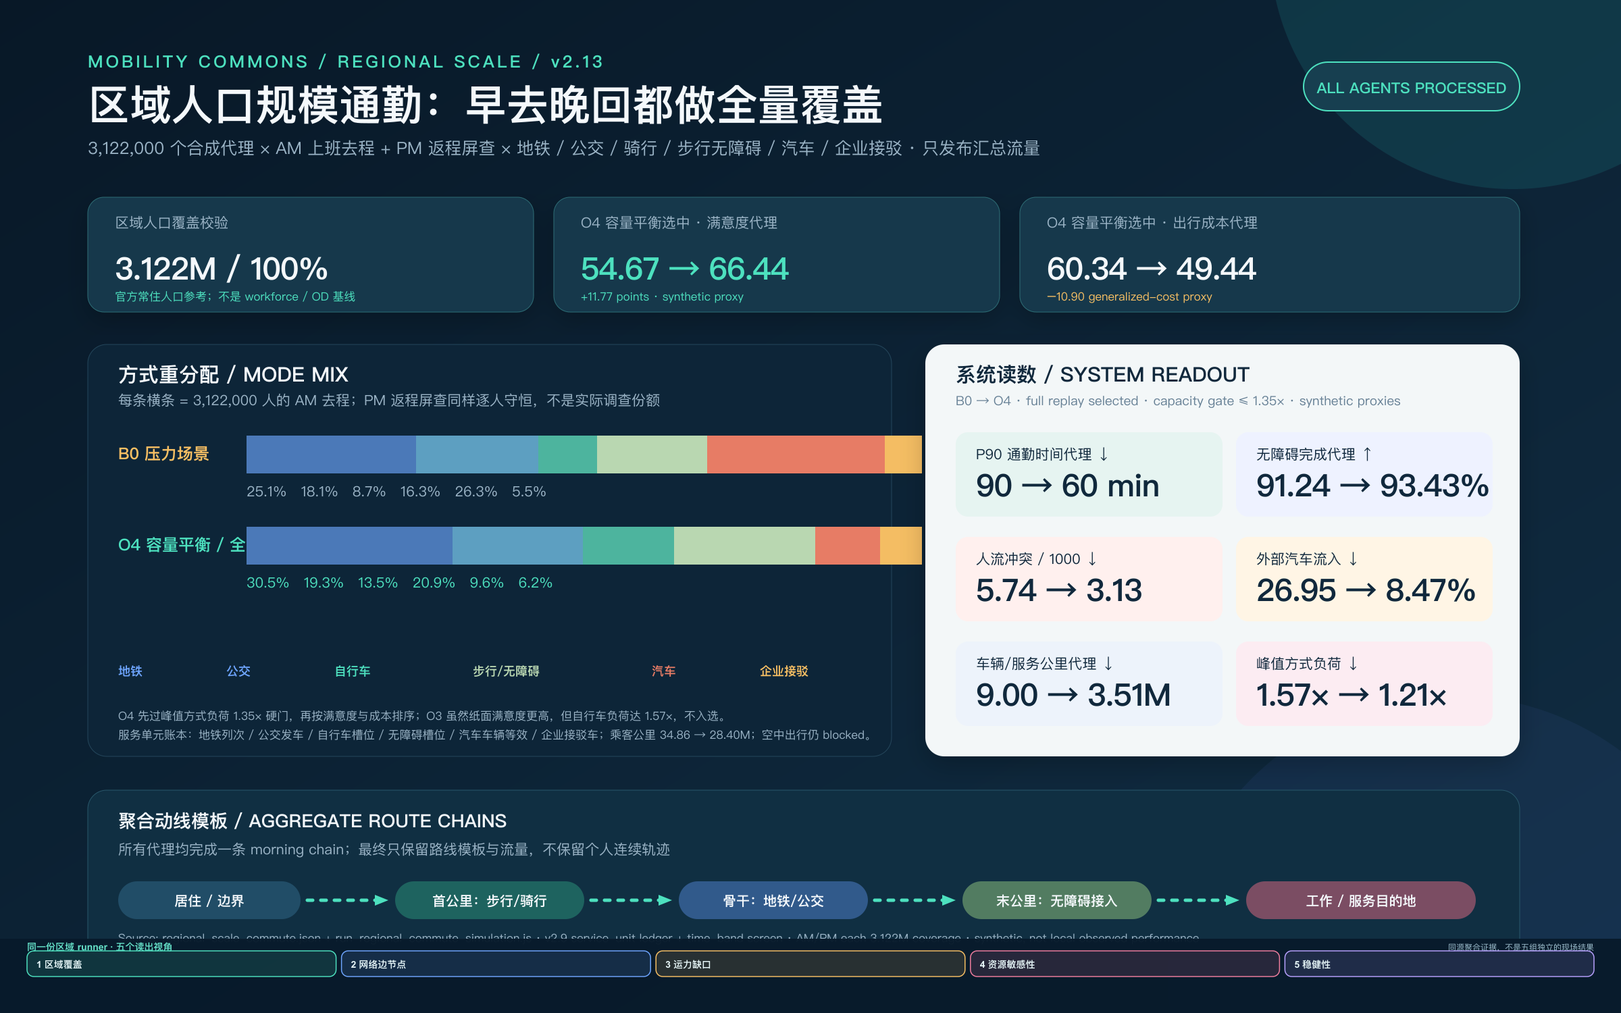
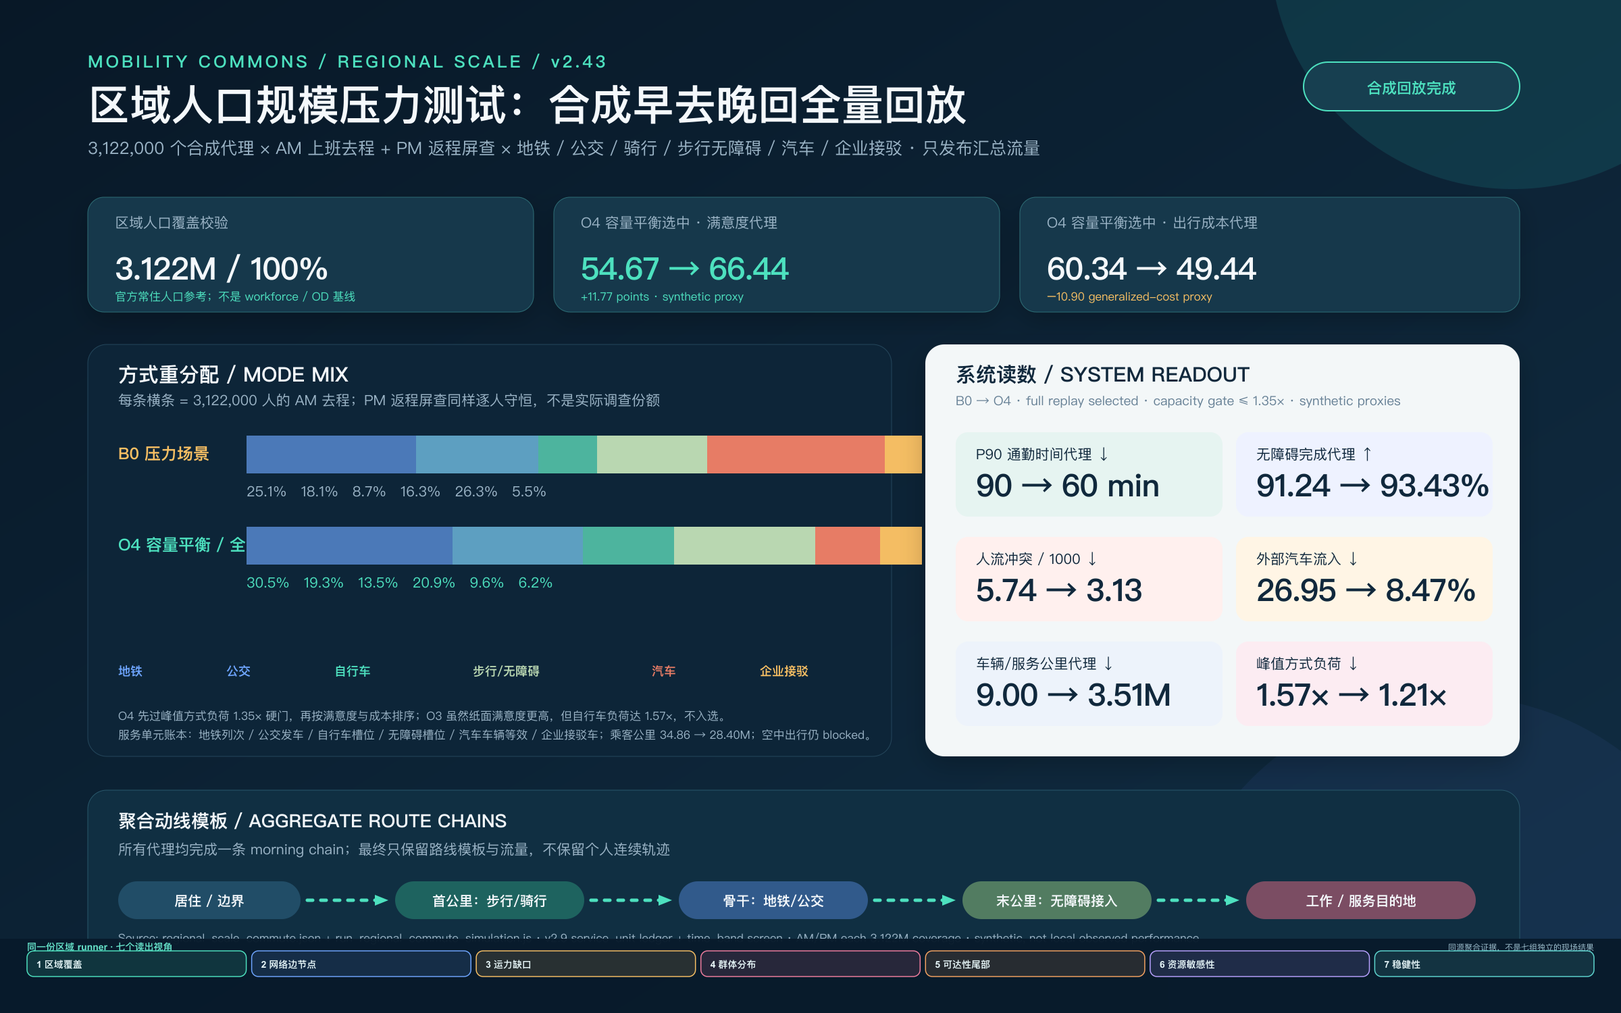
Clarify synthetic population stress replay

diff --git a/submissions/147228/mobility-commons-jingzhang/report/proposal.en.html b/submissions/147228/mobility-commons-jingzhang/report/proposal.en.html
@@ -267,11 +267,11 @@ code {
 <p>The map answers the spatial question before the model question. The three key areas, four conceptual links, external-commute interface and five curb states share one relationship view; colours describe a design contract and do not represent observed occupancy. The boundary, roads and key areas remain provisional, with no observed station capacity or flow drawn here <sup class="evidence evidence-data" data-evidence-kind="data" data-evidence-value="geometry/site_boundary.geojson#SITE-001" title="空间数据：geometry/site_boundary.geojson#SITE-001">空间数据</sup> <sup class="evidence evidence-data" data-evidence-kind="data" data-evidence-value="geometry/key_areas.geojson#PROV-KEY-001" title="空间数据：geometry/key_areas.geojson#PROV-KEY-001">空间数据</sup> <sup class="evidence evidence-data" data-evidence-kind="data" data-evidence-value="geometry/roads.geojson#ROAD-001" title="空间数据：geometry/roads.geojson#ROAD-001">空间数据</sup>.</p>
 <figure class="proposal-figure"><img src="../assets/figures/system-efficiency-board.en.svg" alt="v1.3 enterprise–resident mobility system efficiency: candidates, groups and gates"><figcaption>v1.3 enterprise–resident mobility system efficiency: candidates, groups and gates</figcaption></figure>
 <figure class="proposal-figure"><img src="../assets/figures/model-objects.en.png" alt="Multimodal model objects: residents, vehicles, metro and analysis outputs"><figcaption>Multimodal model objects: residents, vehicles, metro and analysis outputs</figcaption></figure>
-<h4>Regional-scale integrated commute simulation: process the full 3.122M morning chains</h4>
+<h4>Population-reference synthetic AM/PM stress replay</h4>
 <p>To address the objective of maximizing system efficiency and the satisfaction outcome, the package now adds <code>visual/assets/regional-scale-commute.json</code> and <code>node visual/assets/run-regional-commute-simulation.js</code>. It uses the official Beijing profile’s 3.122 million Haidian permanent residents at the end of 2024 as a <strong>population-scale coverage reference</strong>, and processes one synthetic morning chain for every agent: home/boundary → first mile → metro/bus/bicycle/walking-accessible/car/enterprise shuttle → work or service destination. The 3,122,000 figure is a population-scale stress test, not a workforce count, census microdata release or observed local OD. The enterprise, resident-worker, carer/child, visitor/service, logistics/maintenance and night-worker shares are declared scenario weights awaiting calibration <sup class="evidence evidence-source" data-evidence-kind="source" data-evidence-value="HAIDIAN-POPULATION-2024" title="来源：HAIDIAN-POPULATION-2024">来源</sup>.</p>
 <p>The runner actually loops through all 3,122,000 synthetic agents and retains only group, zone, mode, route-template, time-histogram, passenger-kilometre, service-unit-ledger and mass-conservation aggregates; no address, employer, identity or continuous personal trace is stored. B0 is a concentrated-arrival stress case, O1/O2/O3/O4 are public-transport, active-mobility, equity and capacity-balanced candidates, and R1 is a ground fallback screen after a metro disruption. The runner fully replays O1/O2/O3/O4 for the AM leg, applies a hard gate of peak mode load ≤1.35×, then selects lexicographically by maximum composite mobility-pressure proxy score → generalized cost → p90 time → conflicts → external-car inflow → vehicle/service-km; O3 has the highest paper score but fails its bicycle-load gate, so O4 capacity-balanced wins the declared synthetic set. O4 then runs a separate full-population PM return coverage screen with reversed aggregate routes; evening OD remains pending dated evidence. “Composite mobility-pressure proxy score” is built from time, reliability, accessibility and conflict. A resident survey result remains pending formal evidence.</p>
 <p>Under the current synthetic inputs, the full-replay-selected O4 moves the composite mobility-pressure proxy score from 54.67 to 66.44, generalized-cost proxy from 60.34 to 49.44, p90 time proxy from 90 to 60 minutes, people-flow conflicts from 5.74 to 3.13 per 1,000, external-car inflow from 26.95% to 8.47%, passenger-kilometre proxy from 34.86M to 28.40M, vehicle/service-kilometre proxy from 9.00M to 3.51M, and peak mode load from 1.57× to 1.21×. The <code>service_unit_ledger</code> reports, for each mode, required and available train departures, bus departures, bicycle slots, accessible-path slots, car vehicle equivalents and enterprise shuttle vehicles; these are transparent synthetic service screens, while observed fleets, timetables and capacity remain pending dated evidence. The ranked O1/O2/O3/O4 candidates, capacity loads and gate results are emitted by the runner, so a hand-picked candidate is not presented as optimal; O3 can return only after bicycle capacity is supplied or calibrated. These values demonstrate population-scale conservation, replayability and comparison. They do not establish the same improvement in Haidian. A resident survey result remains pending formal evidence. Before a local decision, the package still requires time-binned OD, workforce composition, station/bus/curb capacity, grouped mode shares, door-to-door p50/p90, accessibility audits and fleet/headway evidence.</p>
-<figure class="proposal-figure"><img src="../assets/figures/regional-scale-commute-board.en.svg" alt="Regional-scale integrated commute simulation: 3.122M synthetic population agents"><figcaption>Regional-scale integrated commute simulation: 3.122M synthetic population agents</figcaption></figure>
+<figure class="proposal-figure"><img src="../assets/figures/regional-scale-commute-board.en.svg" alt="Population-reference synthetic commute stress replay"><figcaption>Population-reference synthetic commute stress replay</figcaption></figure>
 <p>To keep group differences visible, the new group–mode–capacity board exposes the O4 proxy scores directly: resident workers 67.38, carers/children 67.24, night workers 66.35 and logistics/maintenance 57.21; grouped accessibility completion stays within the synthetic 92.87%–95.49% range. The right-hand ledger separates metro, bus, bicycle, accessible-path, car and enterprise-shuttle service pressure: 1.00× is the declared capacity line and 1.35× is the candidate gate. O4 still produces 332,639 synthetic capacity-overflow person-trips, so the board says “add service before expansion” and keeps the pressure visible. The 332,639 overflow proxy and the +301,925 closure gap belong to two different screens. The first keeps the O4 base service declaration and exposes its remaining pressure; the second is a sensitivity sweep that adds declared units until the end-of-window queue reaches zero. Neither is existing operating supply. Car share falls from 26.3% in B0 to 9.6% in O4, while logistics/maintenance still retains 75.8% car share; resident commute optimization does not erase necessary service vehicles <sup class="evidence evidence-metric" data-evidence-kind="metric" data-evidence-value="resident_daily_trip_access_index" title="指标：resident_daily_trip_access_index">指标</sup> <sup class="evidence evidence-metric" data-evidence-kind="metric" data-evidence-value="accessible_route_completion_ratio" title="指标：accessible_route_completion_ratio">指标</sup> <sup class="evidence evidence-metric" data-evidence-kind="metric" data-evidence-value="peak_curb_conflict_rate" title="指标：peak_curb_conflict_rate">指标</sup>.</p>
 <figure class="proposal-figure"><img src="../assets/figures/resident-vehicle-capacity-board.en.svg" alt="Residents — vehicles — metro: group mode mix and capacity stress"><figcaption>Residents — vehicles — metro: group mode mix and capacity stress</figcaption></figure>
 <p>This revision also bins the same runner’s synthetic per-agent outputs by group, adding P50/P90 travel time and satisfaction-proxy P10/P50/P90. Under O4, the logistics/maintenance group has a satisfaction-proxy P10 of 50/100, night workers have a P90 travel-time bin of 90 minutes, and the group P10 spread is 20 proxy points. The readout keeps the lower tail visible beside the overall mean. A nominal candidate must keep both the group mean-satisfaction gap at or below 12 proxy points and the group P10 spread at or below 20 proxy points; the four stress scenarios use corresponding 18-point and 30-point screens. A transport-equity review recommends comparing distributions, sufficiency thresholds and multiple scenarios together; this package adopts that reading order without importing external population attributes, coefficients or Haidian outcomes <sup class="evidence evidence-source" data-evidence-kind="source" data-evidence-value="TRANSPORT-EQUITY-DISTRIBUTION-2023" title="来源：TRANSPORT-EQUITY-DISTRIBUTION-2023">来源</sup>.</p>

diff --git a/submissions/147228/mobility-commons-jingzhang/report/proposal.html b/submissions/147228/mobility-commons-jingzhang/report/proposal.html
@@ -283,11 +283,11 @@ code {
 <p>在这套归一化沙盘中，未协同高峰的汽车路缘峰值排队为 86 辆、站口闸机负荷为 1.05；多方式路缘协同候选为 0 辆和 0.88；极端天气地面回退为 47 辆和 0.96。它说明优先校准站口闸机、公交站容量、路缘服务和无障碍过街，而不是把“模型分数”直接当成建设结论。现场补齐有日期的跨边界 OD、班次、断面、停车、冲突和消防审查后，才允许替换设计输入并重新运行。</p>
 <figure class="proposal-figure"><img src="../assets/figures/system-efficiency-board.svg" alt="v1.3 企业与居民交通系统效率。候选方案、人群构成与硬门"><figcaption>v1.3 企业与居民交通系统效率。候选方案、人群构成与硬门</figcaption></figure>
 <figure class="proposal-figure"><img src="../assets/figures/model-objects.png" alt="多方式模型对象。居民、车辆、地铁与分析输出"><figcaption>多方式模型对象。居民、车辆、地铁与分析输出</figcaption></figure>
-<h4>区域人口规模综合模拟。把 312.2 万人的早高峰动线全部跑一遍</h4>
+<h4>人口规模参考的合成早晚高峰压力回放</h4>
 <p>为回应“整体效率最高、满意度最高”的目标，新增 <code>visual/assets/regional-scale-commute.json</code> 与 <code>node visual/assets/run-regional-commute-simulation.js</code>。它以北京市官方资料披露的海淀区 2024 年末 312.2 万常住人口作为<strong>规模覆盖参考</strong>，让每一名合成代理走完一条早高峰动线。动线从居住区或边界出发，经过首公里、地铁或公交、骑行、步行无障碍、汽车或企业接驳，最后到达工作或服务目的地。这里的 3,122,000 是人口规模压力测试，不能当作工作人口、普查微观数据或本地 OD；企业员工、居民工作者、照护者和儿童、访客和服务、物流维护以及夜班人员的比例都是待校准的情景权重 <sup class="evidence evidence-source" data-evidence-kind="source" data-evidence-value="HAIDIAN-POPULATION-2024" title="来源：HAIDIAN-POPULATION-2024">来源</sup>。</p>
 <p>runner 实际循环处理全部 3,122,000 个合成代理，并只保留分组、区域、方式、路线模板、时间直方图、乘客公里、服务单元账本和总量校验；不落个人地址、雇主、身份或连续轨迹。B0 是集中到达的压力场景，O1、O2、O3、O4 是公共交通、慢行、公平和容量平衡的四组候选，R1 是地铁中断后的地面回退屏查。runner 对 O1、O2、O3、O4 都做 AM 全量回放，先执行峰值方式负荷 ≤1.35× 的硬门，再按“综合出行压力代理分最大、广义成本、p90、冲突、外部汽车流入、车辆和服务公里”的字典序选择。当前合成输入下 O3 的纸面代理分最高，但自行车峰值负荷达 1.57×，因此被硬门排除，最终由 O4 容量平衡候选胜出。选中的 O4 随后再对全部 3,122,000 人做独立 PM 返程覆盖屏查，反向聚合工作或服务到居住路线；晚高峰 OD 仍待正式数据补齐。输出的“综合出行压力代理分”由时间、可靠性、可达性和冲突构成，居民调查结果仍待正式数据补齐。</p>
 <p>在当前合成输入下，全量搜索选中的 O4 综合出行压力代理分为 54.67 → 66.44，广义成本代理为 60.34 → 49.44，p90 时间代理为 90 → 60 分钟，人流冲突代理为 5.74 → 3.13/千人，外部汽车流入为 26.95% → 8.47%，乘客公里代理为 34.86M → 28.40M，车辆/服务单元公里代理为 9.00M → 3.51M，峰值方式负荷由 1.57× 降至 1.21×。runner 的 <code>service_unit_ledger</code> 会逐方式列出地铁列次、公交发车、自行车槽位、连续无障碍服务槽位、汽车车辆等效和企业接驳车的所需单元、可用单元与负荷；这些是透明的合成服务屏查，实际车队、班次和运力仍待正式数据补齐。O1/O2/O3/O4 的候选排名、容量负荷和硬门结果都写入 runner 输出，避免把一个手选方案冒充“最优”；O3 的更高代理分只有在补足自行车容量后才可重新进入候选。上述读数只证明模型能在区域人口规模上守恒、回算和比较，海淀现状改善仍没有得到证明。居民调查结果仍待正式数据补齐，真正决策前还需补分时 OD、工作人口结构、站点/公交/路缘容量、分组方式份额、门到门 p50/p90、无障碍审计和车队/班次证据。</p>
-<figure class="proposal-figure"><img src="../assets/figures/regional-scale-commute-board.svg" alt="区域人口规模通勤综合模拟。312.2 万合成人口代理"><figcaption>区域人口规模通勤综合模拟。312.2 万合成人口代理</figcaption></figure>
+<figure class="proposal-figure"><img src="../assets/figures/regional-scale-commute-board.svg" alt="人口规模参考的合成通勤压力回放"><figcaption>人口规模参考的合成通勤压力回放</figcaption></figure>
 <p>为了让群体代理分的差异不被总平均值遮住，新增群体、方式和运力证据板。O4 下居民工作者的综合出行压力代理分为 67.38，照护者和儿童为 67.24，夜班人员为 66.35，物流和维护为 57.21；无障碍完成代理按组保持在 92.87% 至 95.49% 的合成范围。右侧把地铁、公交、自行车、无障碍、汽车和企业接驳的服务单元负荷拆开，1.00× 是声明容量线，1.35× 是候选筛选闸门；O4 仍有 332,639 人次容量溢出代理，因此图板把“补班次/槽位、再谈扩展”列为下一步，容量压力保持可见。这里的 332,639 与闭合屏的 +301,925 属于两张不同的屏查。前者保留 O4 基础声明服务下的溢出，后者按敏感性扫描补足声明服务单元并把窗口末队列压到零；两者都不能当作现有运营能力。汽车方式份额从 B0 的 26.3% 降到 O4 的 9.6%，但物流和维护组仍有 75.8% 的汽车份额，居民通勤优化不能替代必要的服务车辆 <sup class="evidence evidence-metric" data-evidence-kind="metric" data-evidence-value="resident_daily_trip_access_index" title="指标：resident_daily_trip_access_index">指标</sup> <sup class="evidence evidence-metric" data-evidence-kind="metric" data-evidence-value="accessible_route_completion_ratio" title="指标：accessible_route_completion_ratio">指标</sup> <sup class="evidence evidence-metric" data-evidence-kind="metric" data-evidence-value="peak_curb_conflict_rate" title="指标：peak_curb_conflict_rate">指标</sup>。</p>
 <figure class="proposal-figure"><img src="../assets/figures/resident-vehicle-capacity-board.svg" alt="居民、车辆与地铁。群体方式与运力压力"><figcaption>居民、车辆与地铁。群体方式与运力压力</figcaption></figure>
 <p>本版把同一份 runner 的个体合成读数再按群体做分箱回读，补上 P50/P90 通勤时间和满意度代理 P10/P50/P90。O4 的满意度代理 P10 在物流/维护组为 50/100，夜班工作者的 P90 通勤时间为 90 分钟，群体 P10 差距为 20 个代理分。这个读数让最弱群体留在筛选表里，避免总体平均值遮住分布尾部；名义候选同时须满足群体满意度均值差距不超过 12 个代理分、群体 P10 差距不超过 20 个代理分，四类压力情景分别按 18 和 30 个代理分门槛回读。研究综述建议把分组结果的分布、充分性门槛和多情景比较放在同一套交通公平分析里，本包只借用这种检查顺序，不导入外部人口属性、系数或海淀结果 <sup class="evidence evidence-source" data-evidence-kind="source" data-evidence-value="TRANSPORT-EQUITY-DISTRIBUTION-2023" title="来源：TRANSPORT-EQUITY-DISTRIBUTION-2023">来源</sup>。</p>

diff --git a/submissions/147228/mobility-commons-jingzhang/visual/assets/run-presentation-polish.js b/submissions/147228/mobility-commons-jingzhang/visual/assets/run-presentation-polish.js
@@ -377,7 +377,7 @@ function updateVisualIndex(file, lang) {
   const networkAlt = zh
     ? '全量人员动线与网络压力屏查'
     : 'Population-scale people flow and network pressure screen';
-  const regionalAlt = zh ? '区域人口规模通勤综合模拟' : 'Regional population-scale commute simulation';
+  const regionalAlt = zh ? '人口规模参考的合成通勤压力回放' : 'Population-reference synthetic commute stress replay';
   const regionalImage = `<img src="../assets/figures/regional-scale-commute-board${suffix}.svg" alt="${regionalAlt}">`;
   const networkImage = `<img src="${networkBoard}" alt="${networkAlt}">`;
   const distributionalAlt = zh

diff --git a/submissions/147228/mobility-commons-jingzhang/proposal.en.md b/submissions/147228/mobility-commons-jingzhang/proposal.en.md
@@ -408,7 +408,7 @@ The map answers the spatial question before the model question. The three key ar
 ![v1.3 enterprise–resident mobility system efficiency: candidates, groups and gates](assets/figures/system-efficiency-board.en.svg)
 ![Multimodal model objects: residents, vehicles, metro and analysis outputs](assets/figures/model-objects.en.png)
 
-#### Regional-scale integrated commute simulation: process the full 3.122M morning chains
+#### Population-reference synthetic AM/PM stress replay
 
 To address the objective of maximizing system efficiency and the satisfaction outcome, the package now adds `visual/assets/regional-scale-commute.json` and `node visual/assets/run-regional-commute-simulation.js`. It uses the official Beijing profile’s 3.122 million Haidian permanent residents at the end of 2024 as a **population-scale coverage reference**, and processes one synthetic morning chain for every agent: home/boundary → first mile → metro/bus/bicycle/walking-accessible/car/enterprise shuttle → work or service destination. The 3,122,000 figure is a population-scale stress test, not a workforce count, census microdata release or observed local OD. The enterprise, resident-worker, carer/child, visitor/service, logistics/maintenance and night-worker shares are declared scenario weights awaiting calibration [source:HAIDIAN-POPULATION-2024].
 
@@ -416,7 +416,7 @@ The runner actually loops through all 3,122,000 synthetic agents and retains onl
 
 Under the current synthetic inputs, the full-replay-selected O4 moves the composite mobility-pressure proxy score from 54.67 to 66.44, generalized-cost proxy from 60.34 to 49.44, p90 time proxy from 90 to 60 minutes, people-flow conflicts from 5.74 to 3.13 per 1,000, external-car inflow from 26.95% to 8.47%, passenger-kilometre proxy from 34.86M to 28.40M, vehicle/service-kilometre proxy from 9.00M to 3.51M, and peak mode load from 1.57× to 1.21×. The `service_unit_ledger` reports, for each mode, required and available train departures, bus departures, bicycle slots, accessible-path slots, car vehicle equivalents and enterprise shuttle vehicles; these are transparent synthetic service screens, while observed fleets, timetables and capacity remain pending dated evidence. The ranked O1/O2/O3/O4 candidates, capacity loads and gate results are emitted by the runner, so a hand-picked candidate is not presented as optimal; O3 can return only after bicycle capacity is supplied or calibrated. These values demonstrate population-scale conservation, replayability and comparison. They do not establish the same improvement in Haidian. A resident survey result remains pending formal evidence. Before a local decision, the package still requires time-binned OD, workforce composition, station/bus/curb capacity, grouped mode shares, door-to-door p50/p90, accessibility audits and fleet/headway evidence.
 
-![Regional-scale integrated commute simulation: 3.122M synthetic population agents](assets/figures/regional-scale-commute-board.en.svg)
+![Population-reference synthetic commute stress replay](assets/figures/regional-scale-commute-board.en.svg)
 
 To keep group differences visible, the new group–mode–capacity board exposes the O4 proxy scores directly: resident workers 67.38, carers/children 67.24, night workers 66.35 and logistics/maintenance 57.21; grouped accessibility completion stays within the synthetic 92.87%–95.49% range. The right-hand ledger separates metro, bus, bicycle, accessible-path, car and enterprise-shuttle service pressure: 1.00× is the declared capacity line and 1.35× is the candidate gate. O4 still produces 332,639 synthetic capacity-overflow person-trips, so the board says “add service before expansion” and keeps the pressure visible. The 332,639 overflow proxy and the +301,925 closure gap belong to two different screens. The first keeps the O4 base service declaration and exposes its remaining pressure; the second is a sensitivity sweep that adds declared units until the end-of-window queue reaches zero. Neither is existing operating supply. Car share falls from 26.3% in B0 to 9.6% in O4, while logistics/maintenance still retains 75.8% car share; resident commute optimization does not erase necessary service vehicles [metric:resident_daily_trip_access_index] [metric:accessible_route_completion_ratio] [metric:peak_curb_conflict_rate].
 

diff --git a/submissions/147228/mobility-commons-jingzhang/changelog.md b/submissions/147228/mobility-commons-jingzhang/changelog.md
@@ -2,6 +2,7 @@
 
 ## v2.50 - 2026-08-10
 
+- 将区域通勤首屏标题与状态徽标改为“人口规模压力测试／合成回放完成”，同步中英文 SVG、PNG、正文和 HTML alt，避免把 3,122,000 的人口规模参考误读成真实通勤覆盖；模拟读数、输入和评分保护线未改变。
 - 新增 `activity-completion-screen.json` 与 population-scale activity-chain runner：四个地面情景各遍历 3,122,000 名合成代理，分开记录准时闭合、延误、有限延期、主要活动不可达和返程未闭合。
 - 新增双语活动链状态图板并接入 proposal、离线 visual index、claim audit、评审导航和 manifest；名义 O4 链闭合 91.06%，压力情景失败保留为 `stop_and_calibrate`，不写成现场韧性或居民结果。
 - 地面回退限定为一次且受容量/可达性约束，步行/无障碍来源不静默改道，空中候选继续 `blocked`；第一名项目、公开榜单文件、官方临时边界和分数保护线未改动。
